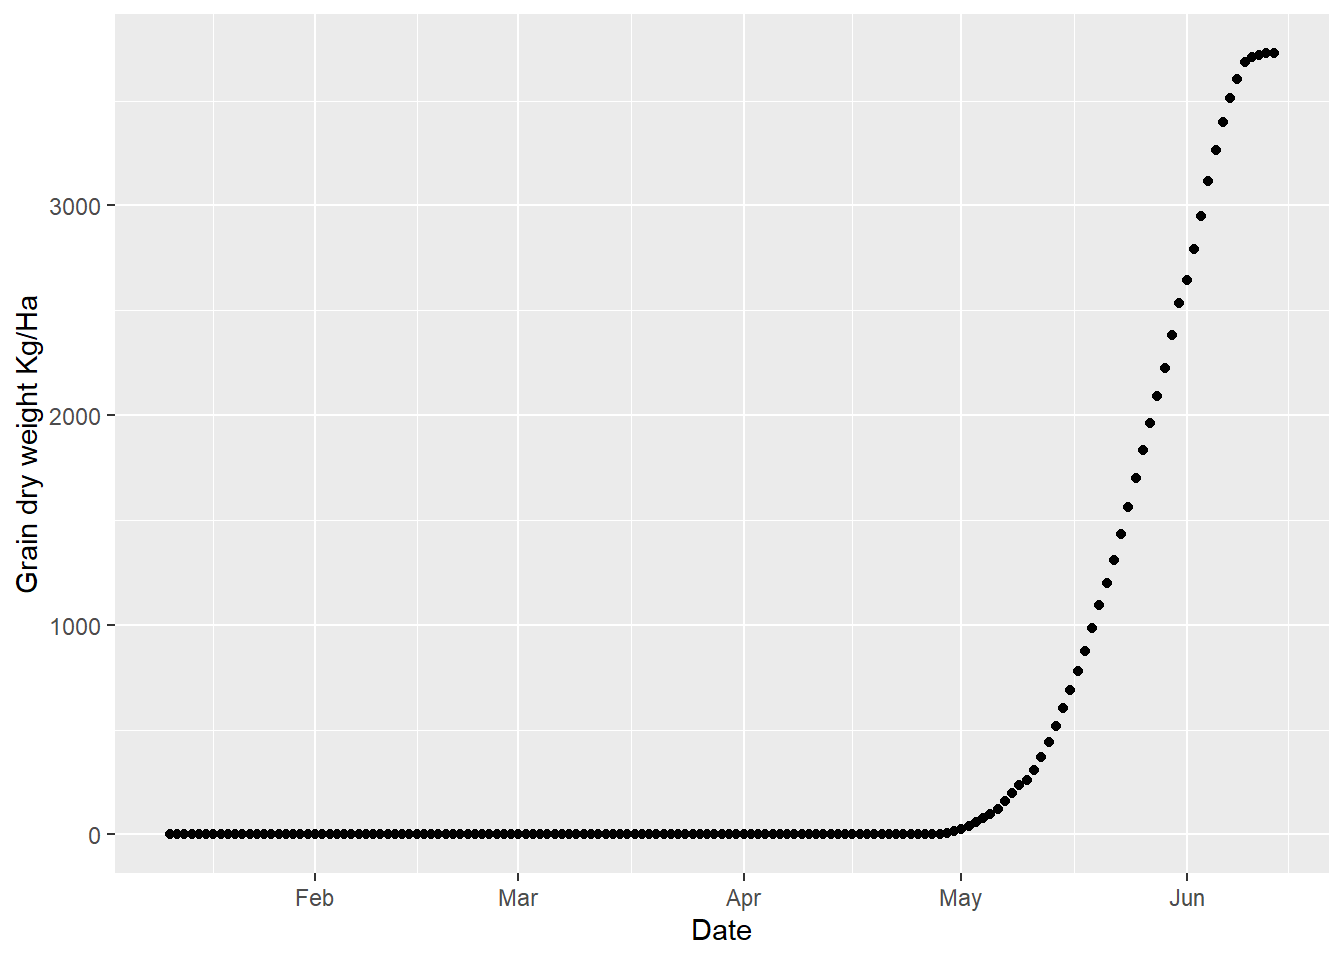
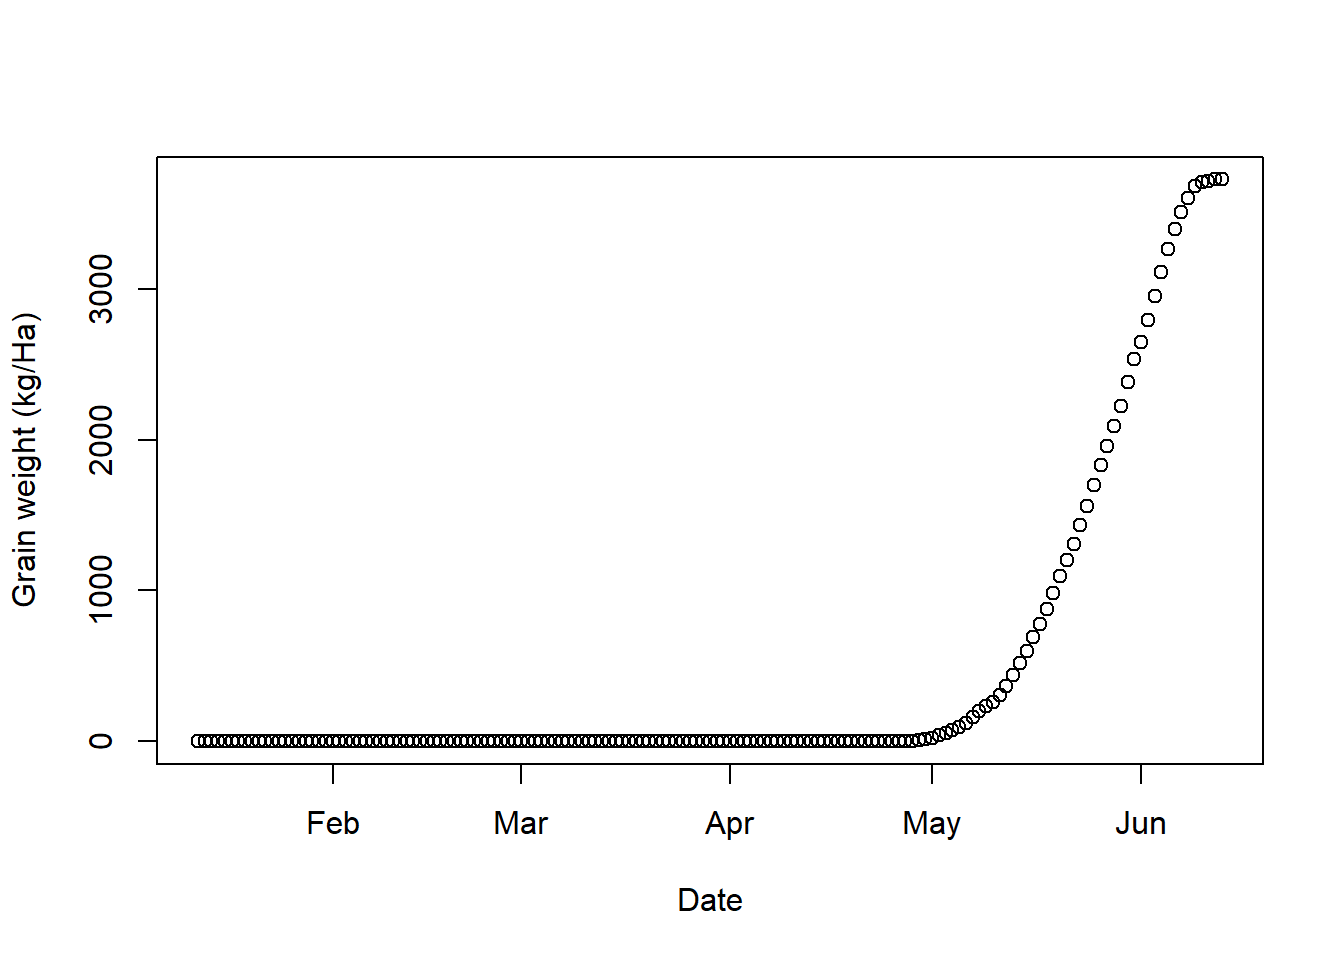
wofost model

diff --git a/content/post/2021-08-24-proof-of-concept-or-illus-world-food-studied-crop-model-for-israeli-wheat/index.html b/content/post/2021-08-24-proof-of-concept-or-illus-world-food-studied-crop-model-for-israeli-wheat/index.html
@@ -140,8 +140,7 @@ head(d)</code></pre>
 ## 4 0.001811663 0.02254804   0 0.11
 ## 5 0.002242620 0.02619071   0 0.11
 ## 6 0.002675244 0.03362025   0 0.11</code></pre>
-<pre class="r"><code>p&lt;-d%&gt;%ggplot(aes(x=date,y=WSO))+geom_point()+xlab(&quot;Date&quot;)+ylab(&quot;Grain dry weight Kg/Ha&quot;)
-print(p)</code></pre>
+<pre class="r"><code>plot(d$date,d$WSO,xlab = &quot;Date&quot;,ylab = &quot;Grain weight (kg/Ha)&quot;)</code></pre>
 <p><img src="{{< blogdown/postref >}}index_files/figure-html/unnamed-chunk-1-1.png" width="672" /></p>
 <p>Working, did not check it yet against observed data but the overall message is <strong>we can use WOFOST to model Israeli chickpea</strong>.</p>
 <p>To be continued…</p>
